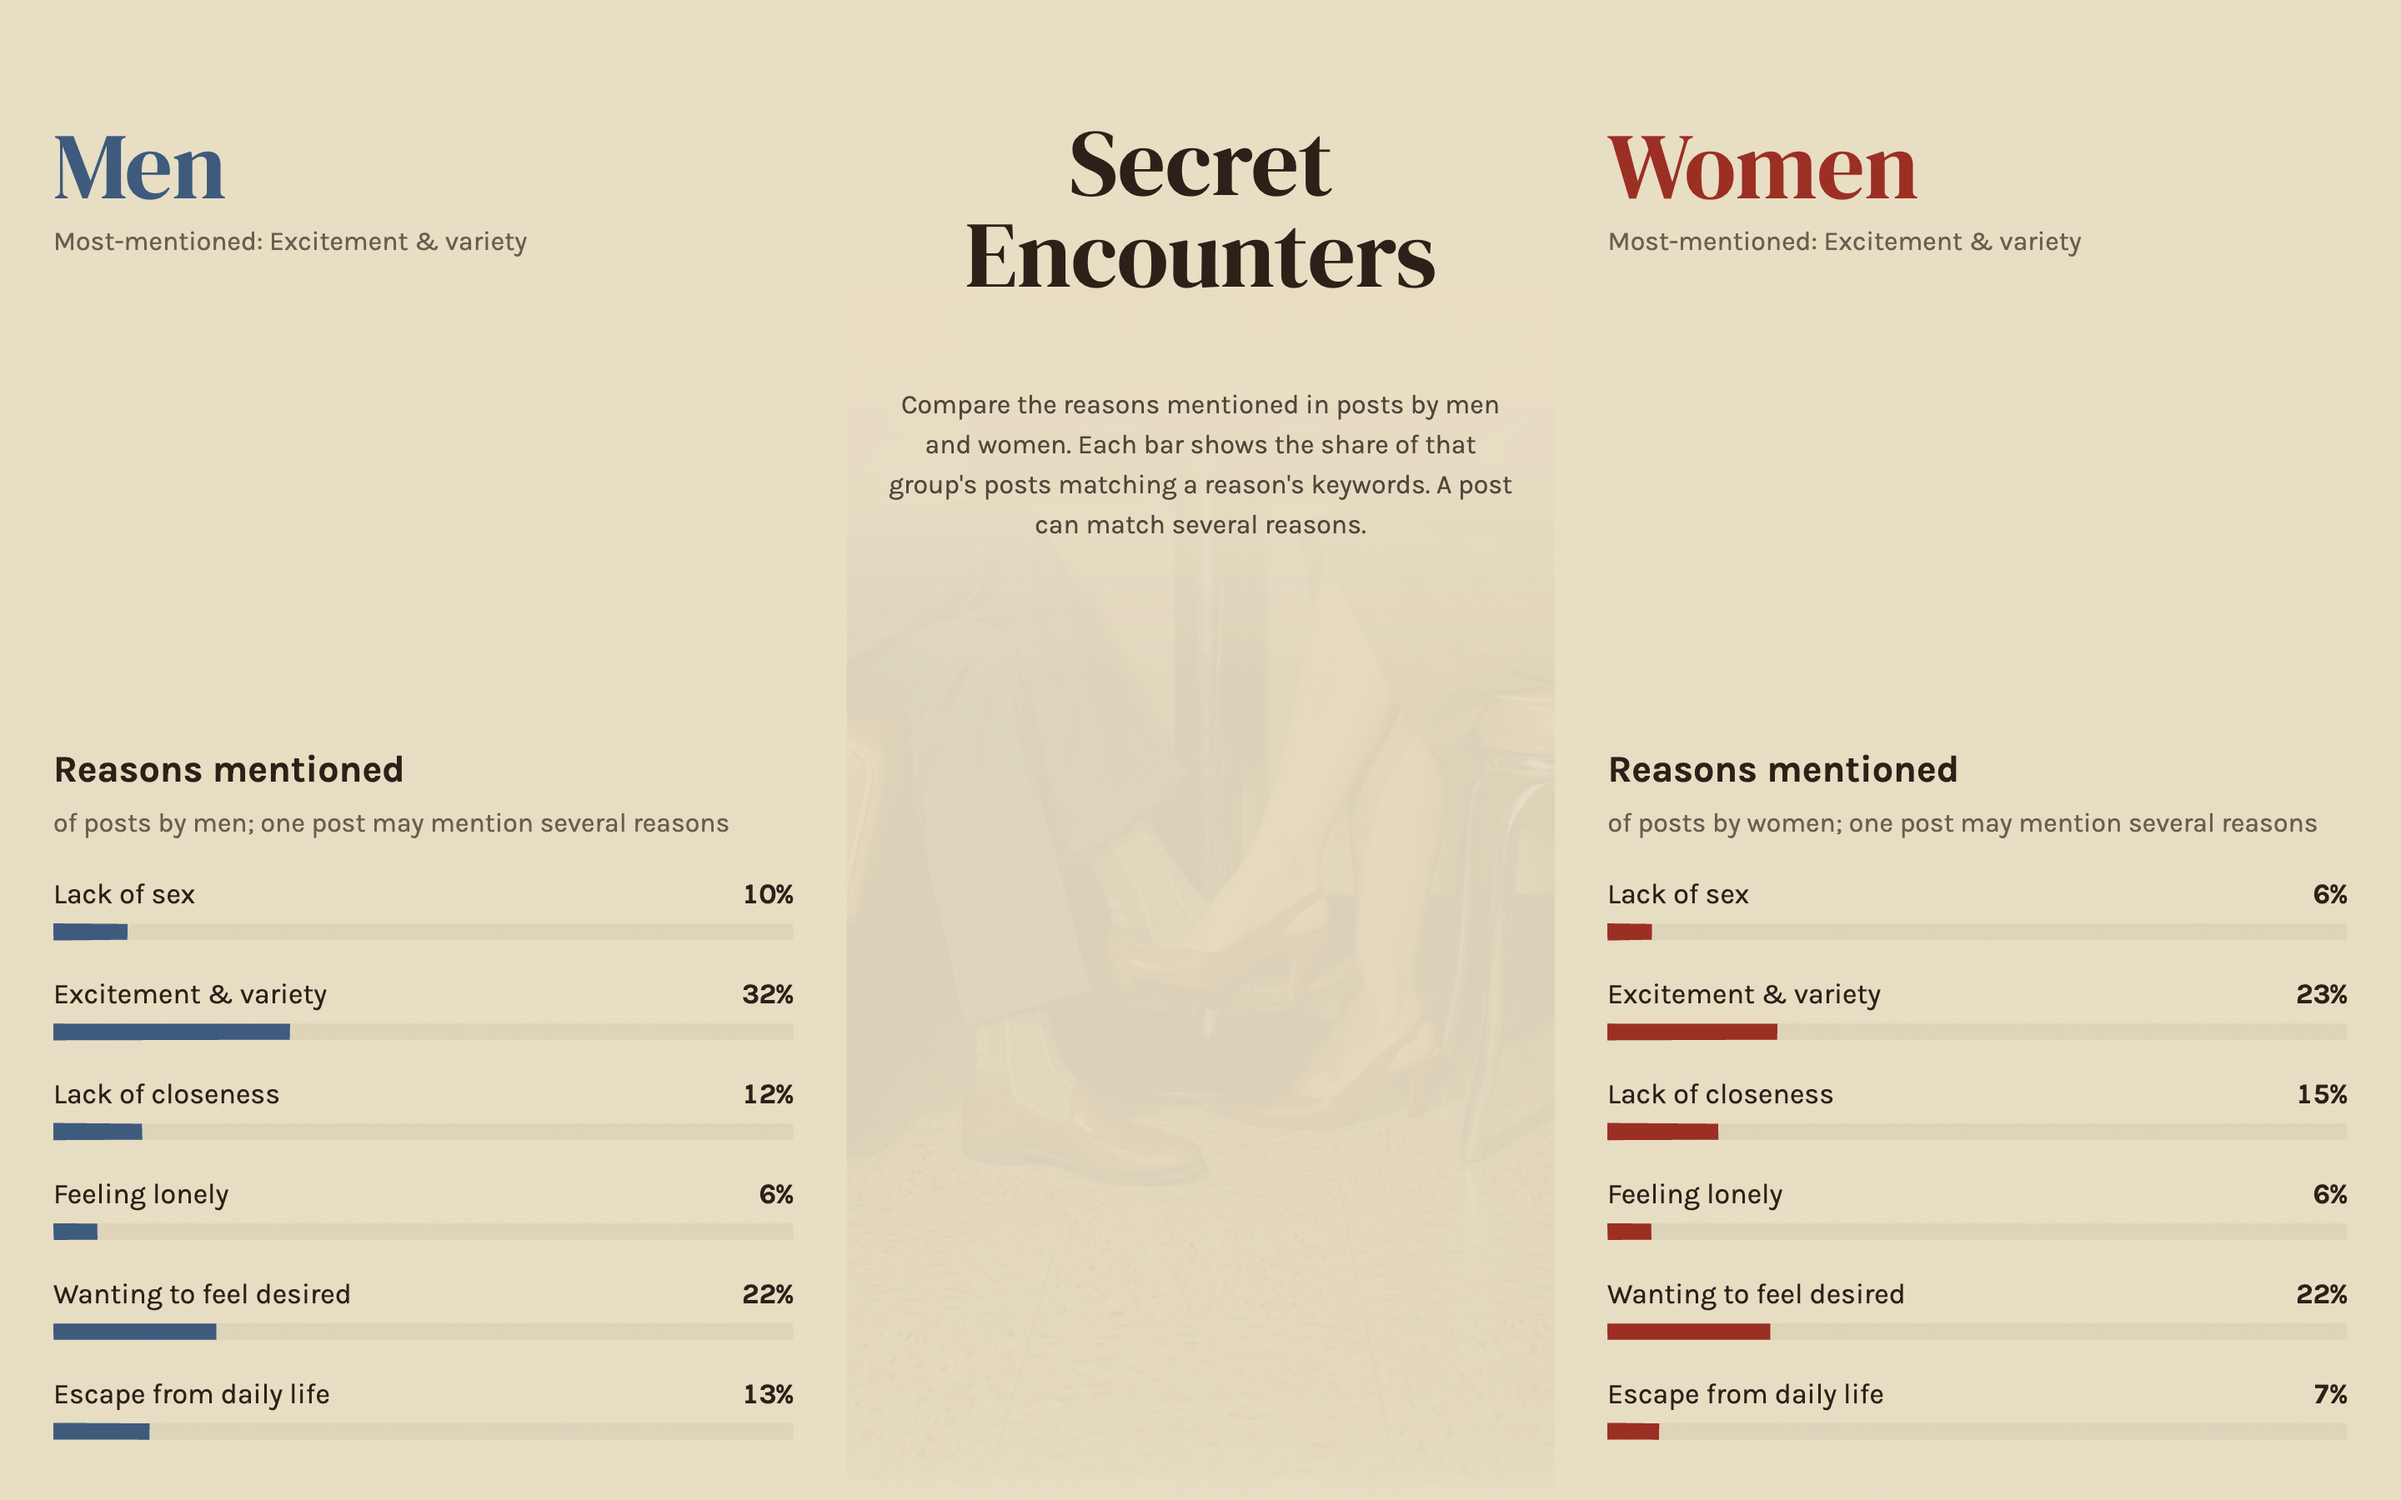
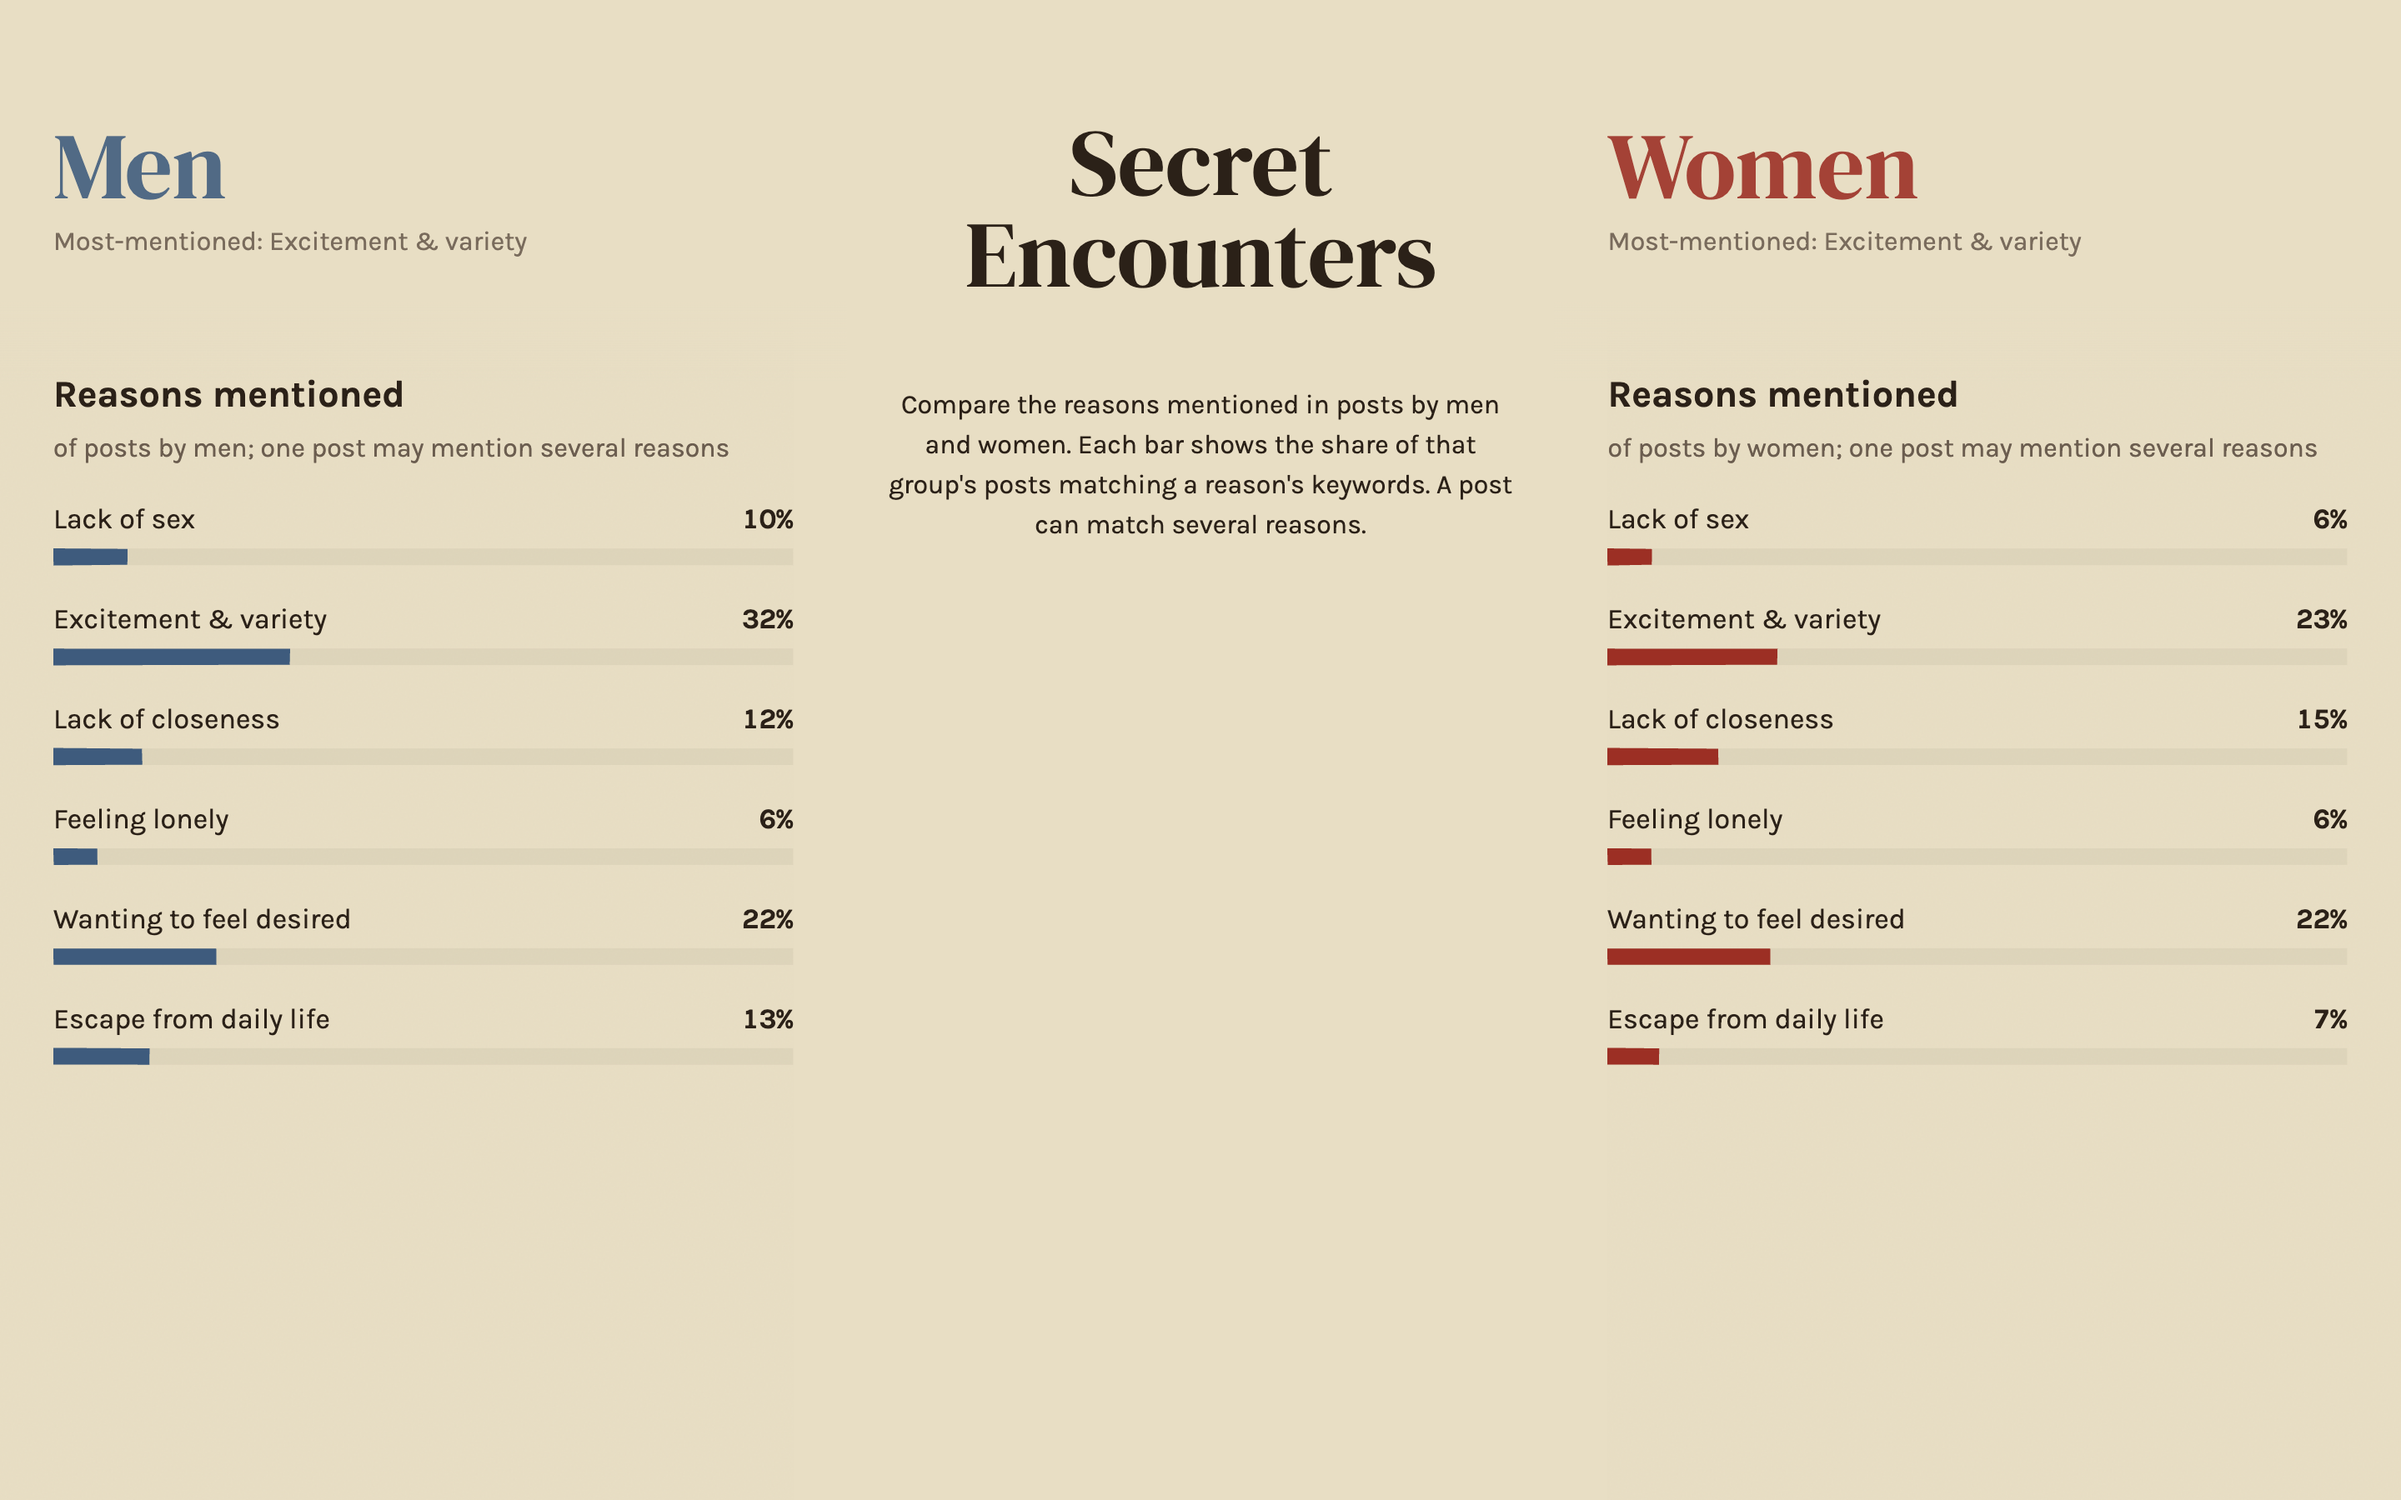
Delay final chapter description fade until after centering

diff --git a/index.html b/index.html
@@ -452,7 +452,7 @@ function updateStoryEffects(){
     ? (titleEntry === 1 && titleExit > 0 ? 1 : 0) : titleEntry * titleExit;
   genderTitles.style.opacity = desktopStory.matches ? 1 : 0;
   genderTitles.inert = titleOpacity === 0;
-  const release = Math.min(1, Math.max(0, (storyStage.getBoundingClientRect().bottom - innerHeight) / (innerHeight * .35)));
+  const release = Math.min(1, Math.max(0, (storyStage.getBoundingClientRect().bottom - innerHeight * .5) / (innerHeight * .35)));
   const introExit = !desktopStory.matches ? 1 : reducedMotion.matches
     ? (release > 0 ? 1 : 0) : release * release * (3 - 2 * release);
   storyIntro.querySelector('h1').style.opacity = 1;
